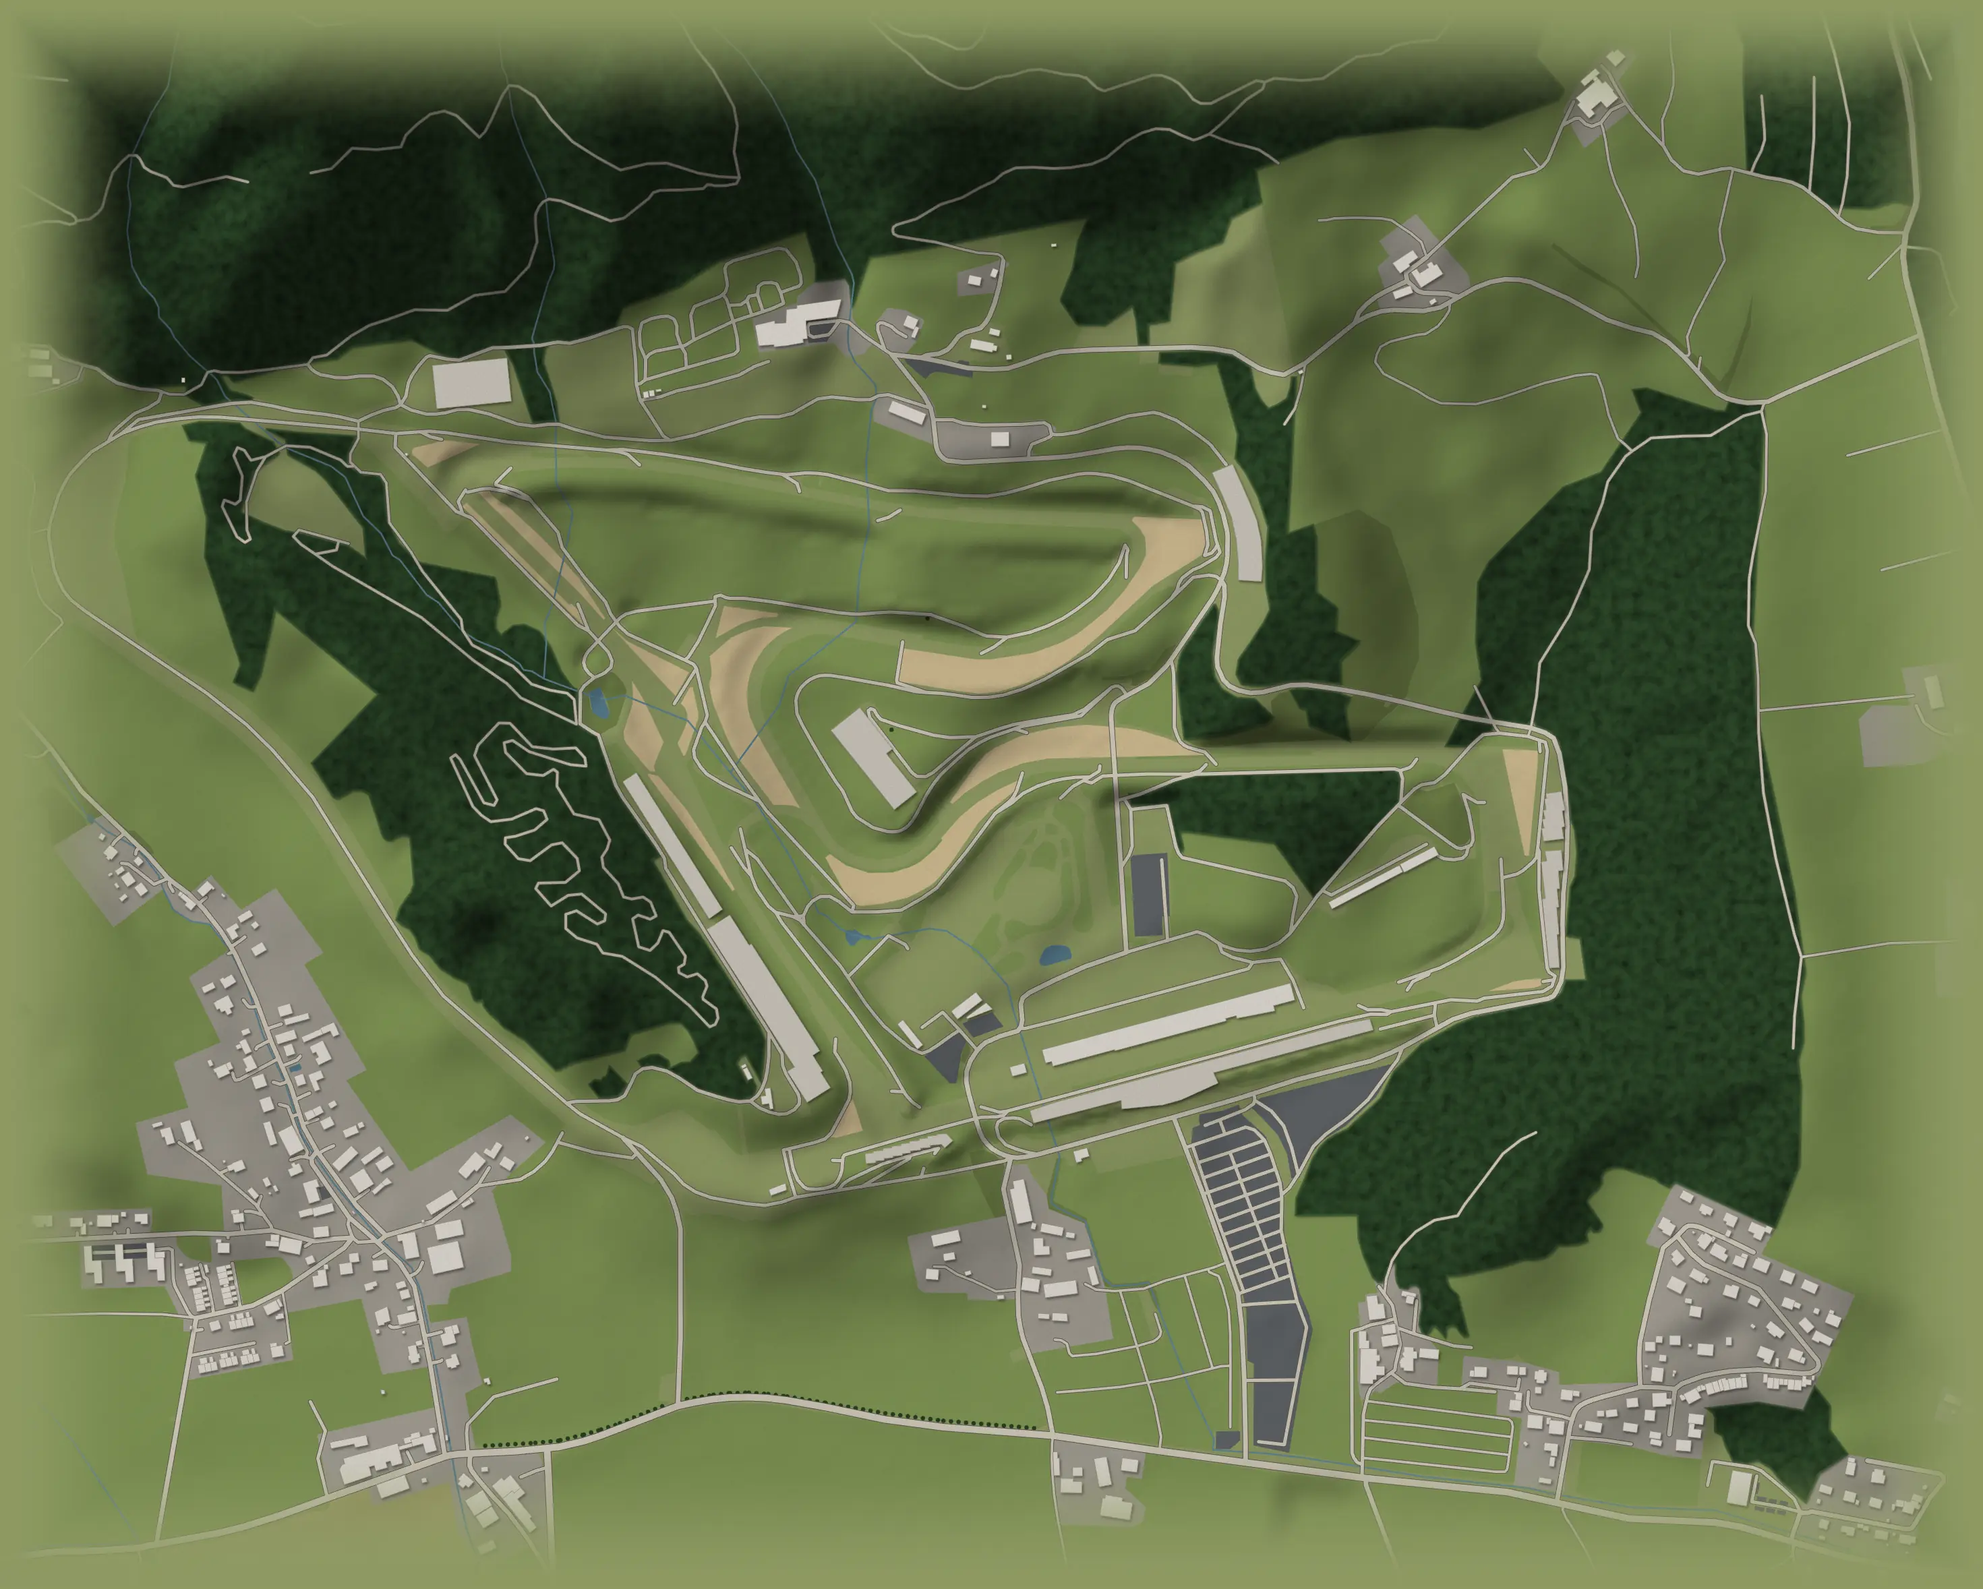
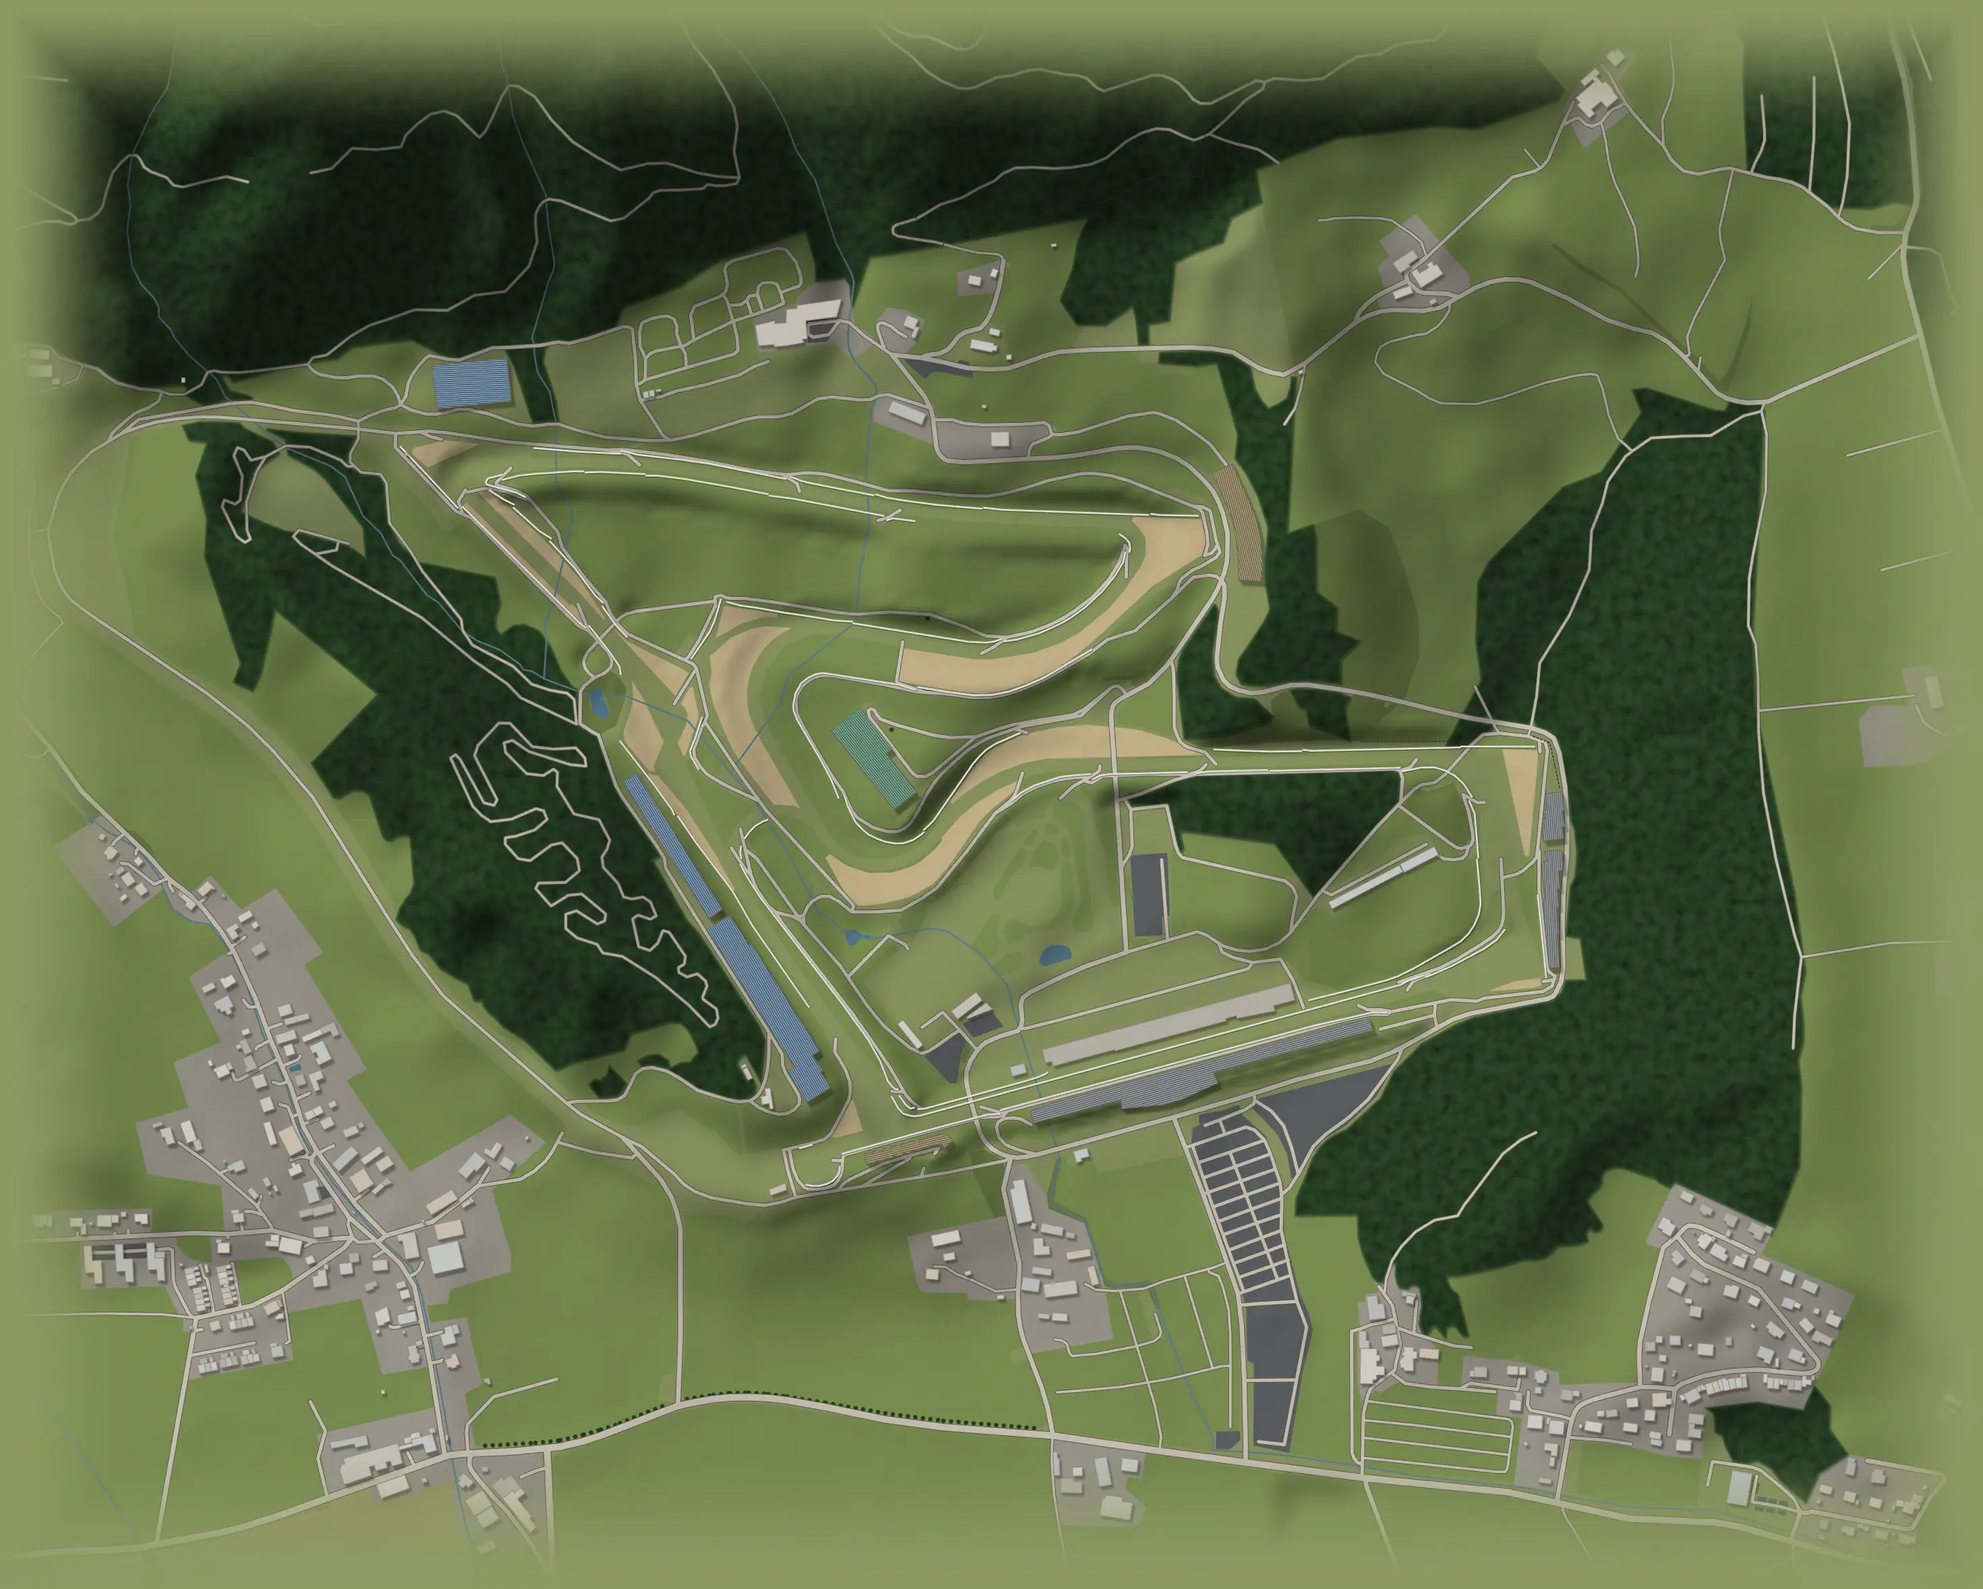
Map detail: the real barriers (walls, armco, catch fences), kerbs on the inside at each apex and the outside at each exit, buildings with height-long shadows and real roof tones, grandstands with rows of coloured seats; the track drawn near its real width over the ground

diff --git a/apps/web/src/components/TrackMap.tsx b/apps/web/src/components/TrackMap.tsx
@@ -73,10 +73,13 @@ function BattleLines({
   line,
   battle,
   glyph,
+  track,
 }: {
   line: Polyline;
   battle: BattleView;
   glyph: number;
+  /** The track's drawn width (map units). */
+  track: number;
 }) {
   const inside = insideSide(line, battle.at);
   const [from, to] = lineStretch(battle.at);
@@ -84,7 +87,7 @@ function BattleLines({
   const brake = battle.at - BRAKE_BEFORE;
   const [bx, by] = pointAt(line, brake);
   const [bnx, bny] = normalAt(line, brake);
-  const half = TRACK / 2 + 3;
+  const half = track / 2 + 3;
   // Options with no line of their own (wait, let him by) sit as tags beside the braking zone,
   // on the outside of the track.
   const tagAt: [number, number] = [
@@ -132,7 +135,7 @@ function BattleLines({
         const called = opts.find((o) => o.line === battle.chosen);
         const lit = battle.chosen === null || !!called;
         const color = LINE_COLOR[(called ?? opts[0])?.line ?? 'inside'];
-        const pts = offsetPath(line, from, to, sideSign * inside * TRACK * 0.32);
+        const pts = offsetPath(line, from, to, sideSign * inside * track * 0.32);
         const d = `M${pts.map((p) => `${p[0].toFixed(1)},${p[1].toFixed(1)}`).join('L')}`;
         const end = pts[pts.length - 1] as [number, number];
         const prev = pts[pts.length - 2] as [number, number];
@@ -158,7 +161,7 @@ function BattleLines({
                 line,
                 from + 0.004 + k * 0.009,
                 from + 0.004 + k * 0.009,
-                sideSign * inside * (TRACK / 2 + 14),
+                sideSign * inside * (track / 2 + 14),
                 1,
               )[0] as [number, number];
               return (
@@ -262,11 +265,6 @@ function garageAt(team: string | undefined, garages: Array<[string, string]>): n
 const pathOf = (pts: Array<[number, number]>, closed: boolean) =>
   `M${pts.map((p) => `${p[0].toFixed(1)},${p[1].toFixed(1)}`).join('L')}${closed ? 'Z' : ''}`;
 
-/** Points of the lap from fraction a to b (a short stretch: a kerb). */
-function stretch(line: Polyline, a: number, b: number, n = 8): Array<[number, number]> {
-  return Array.from({ length: n + 1 }, (_, i) => pointAt(line, a + ((b - a) * i) / n));
-}
-
 /** The circuit itself: drawn once per outline (cars move over it). */
 const TrackArt = memo(function TrackArt({
   outline,
@@ -276,6 +274,7 @@ const TrackArt = memo(function TrackArt({
   userTeam,
   rivalTeam,
   ground,
+  track,
 }: {
   outline: TrackOutline;
   garageList: Array<[string, string]>;
@@ -285,6 +284,8 @@ const TrackArt = memo(function TrackArt({
   rivalTeam?: string;
   /** The real ground under the track (track/ground.ts), when the circuit has it. */
   ground: Ground | null;
+  /** The track's drawn width (map units). */
+  track: number;
 }) {
   const lap = pathOf(outline.points, true);
   const lanePts = lane?.path.points ?? [];
@@ -292,9 +293,22 @@ const TrackArt = memo(function TrackArt({
   // Centre of the circuit, to put corner badges on the outside.
   const cx = outline.points.reduce((t, p) => t + p[0], 0) / outline.points.length;
   const cy = outline.points.reduce((t, p) => t + p[1], 0) / outline.points.length;
-  const kerbs = outline.corners.map(([n, x, y]) => {
+  // Kerbs as on a real corner: on the inside at the apex, on the outside at the exit, each
+  // laid just off the track's edge.
+  const kerbs = outline.corners.flatMap(([n, x, y]) => {
     const f = nearestFraction(line, [x, y]);
-    return { n, d: pathOf(stretch(line, f - 0.012, f + 0.012), false) };
+    const side = insideSide(line, f);
+    const edge = track / 2 + 1.4;
+    return [
+      {
+        key: `${n}-apex`,
+        d: pathOf(offsetPath(line, f - 0.008, f + 0.008, side * edge, 10), false),
+      },
+      {
+        key: `${n}-exit`,
+        d: pathOf(offsetPath(line, f + 0.004, f + 0.022, -side * edge, 12), false),
+      },
+    ];
   });
   // Start/finish: across the track at the first point.
   const [sx, sy] = outline.points[0] ?? [0, 0];
@@ -350,7 +364,7 @@ const TrackArt = memo(function TrackArt({
           d={lap}
           fill="none"
           stroke="var(--runoff)"
-          strokeWidth={TRACK + 34}
+          strokeWidth={track + 34}
           strokeLinejoin="round"
         />
       )}
@@ -360,7 +374,7 @@ const TrackArt = memo(function TrackArt({
         fill="none"
         stroke="#000"
         strokeOpacity={0.35}
-        strokeWidth={TRACK + 9}
+        strokeWidth={track + 9}
         strokeLinejoin="round"
         transform="translate(1.5,2)"
       />
@@ -393,33 +407,20 @@ const TrackArt = memo(function TrackArt({
           />
         </>
       )}
-      {/* Kerbs: red and white, just wider than the track at each corner */}
-      {kerbs.map((k) => (
-        <g key={k.n}>
-          <path d={k.d} fill="none" stroke="#f3f4f2" strokeWidth={TRACK + 5} strokeLinecap="butt" />
-          <path
-            d={k.d}
-            fill="none"
-            stroke="#d63a2f"
-            strokeWidth={TRACK + 5}
-            strokeDasharray="5 5"
-            strokeLinecap="butt"
-          />
-        </g>
-      ))}
+
       {/* Track edges, then the asphalt */}
       <path
         d={lap}
         fill="none"
         stroke="var(--track-line)"
-        strokeWidth={TRACK + 3}
+        strokeWidth={track + 3}
         strokeLinejoin="round"
       />
       <path
         d={lap}
         fill="none"
         stroke="var(--tarmac-lane)"
-        strokeWidth={TRACK}
+        strokeWidth={track}
         strokeLinejoin="round"
       />
       <path
@@ -430,6 +431,20 @@ const TrackArt = memo(function TrackArt({
         strokeDasharray="10 14"
         opacity={0.7}
       />
+      {/* Kerbs: red and white, along the track's edge at each corner */}
+      {kerbs.map((k) => (
+        <g key={k.key}>
+          <path d={k.d} fill="none" stroke="#f3f4f2" strokeWidth={3.2} strokeLinecap="butt" />
+          <path
+            d={k.d}
+            fill="none"
+            stroke="#d63a2f"
+            strokeWidth={3.2}
+            strokeDasharray="3 3"
+            strokeLinecap="butt"
+          />
+        </g>
+      ))}
       {/* Start/finish: a chequered band */}
       <g transform={`translate(${sx},${sy}) rotate(${startAngle})`}>
         {Array.from({ length: 10 }, (_, i) =>
@@ -437,9 +452,9 @@ const TrackArt = memo(function TrackArt({
             <rect
               key={`${i}-${col}`}
               x={-4 + col * 4}
-              y={-TRACK / 2 + i * (TRACK / 10)}
+              y={-track / 2 + i * (track / 10)}
               width={4}
-              height={TRACK / 10}
+              height={track / 10}
               fill={(i + col) % 2 ? '#151A1D' : '#f3f4f2'}
             />
           )),
@@ -595,6 +610,14 @@ export function TrackMap({
   const line = useMemo(() => polyline(outline.points), [outline]);
   const lane = useMemo(() => pitLane(outline, line, TRACK), [outline, line]);
   const ground = useMemo(() => groundFor(model.race.id), [model.race.id]);
+  // Over real ground the track is drawn nearer its real width (about 30 m, so the barriers and
+  // run-off beside it show); never thinner than reads at a glance, nor wider than before.
+  const track = useMemo(() => {
+    if (!ground) return TRACK;
+    const [a, b, c, d] = ground.matrix;
+    const unitsPerMetre = Math.sqrt(Math.abs(a * d - b * c));
+    return Math.min(TRACK, Math.max(12, 30 * unitsPerMetre));
+  }, [ground]);
   const garages = useMemo(
     () =>
       garagesFor(
@@ -781,7 +804,7 @@ export function TrackMap({
     if (!side) return [0, 0];
     const k = Math.min(1, (d + 0.06) / 0.02) * Math.min(1, (0.02 - d) / 0.01);
     const [nx, ny] = normalAt(line, at);
-    const w = TRACK * 0.28 * (code === userSide ? side : -side) * k;
+    const w = track * 0.28 * (code === userSide ? side : -side) * k;
     return [nx * w, ny * w];
   };
 
@@ -804,6 +827,7 @@ export function TrackMap({
         userTeam={race.cars[userSide]?.team}
         rivalTeam={race.cars[rival]?.team}
         ground={ground}
+        track={track}
       />
       {/* Shade over the ground too, beyond the outline's box. */}
       {dim && (
@@ -826,7 +850,7 @@ export function TrackMap({
           opacity={0.3}
         />
       )}
-      {battle && <BattleLines line={line} battle={battle} glyph={glyph} />}
+      {battle && <BattleLines line={line} battle={battle} glyph={glyph} track={track} />}
       {sc && (
         <g transform={`translate(${sc[0].toFixed(1)},${sc[1].toFixed(1)})`}>
           <rect x={-15} y={-9} width={30} height={18} rx={4} fill="var(--flag)" />

diff --git a/pipeline/src/pipeline/basemap.py b/pipeline/src/pipeline/basemap.py
@@ -146,6 +146,102 @@ def _shade_png(h: np.ndarray, step: float) -> str:
     return base64.b64encode(buf.getvalue()).decode()
 
 
+# Roof tones (a building's is picked from its outline, so it stays the same on every run), the
+# grandstands' seat colours, and how the barriers are drawn.
+ROOFS = ["#dcd7ce", "#d0cbc1", "#c3c6c6", "#d6cab8", "#bdb8ae", "#cfd2cf"]
+SEATS = ["#3a6690", "#8c3a3f", "#5f6a73", "#36795c", "#7a6a3a"]
+CONCRETE = "#bfbab0"
+# kind: (colour, width in m, dash). Drawn about twice their real width, so they read on a
+# whole-lap view (at about a pixel and a half a metre).
+BARRIERS = {
+    "wall": ("#ece9e2", 2.2, None),
+    "retaining_wall": ("#dcd8ce", 2.2, None),
+    "guard_rail": ("#d3dade", 1.6, None),
+    "fence": ("#262b2e", 1.0, "3 1.6"),
+}
+SUN = (0.42, 0.58)  # m of shadow, per m of height, along x and y (the light from the north-west)
+
+
+def _hash(pts: list[list[float]]) -> int:
+    x, y = pts[0]
+    return int(abs(x * 7.31 + y * 3.17) * 10) % 9973
+
+
+def _axis(pts: list[list[float]]) -> float:
+    """The angle (degrees) of a footprint's long side: its principal axis."""
+    a = np.asarray(pts, float)
+    a = a - a.mean(0)
+    _, vecs = np.linalg.eigh(a.T @ a)
+    vx, vy = vecs[:, -1]
+    return math.degrees(math.atan2(vy, vx))
+
+
+def _buildings(s: dict, pal: dict) -> tuple[str, str]:
+    """Buildings and grandstands from above: each casts a shadow as long as it's tall; roofs
+    in a few real tones with a darker rim; a grandstand shows its rows of seats, running along
+    its length. Returns (pattern defs, the drawing)."""
+    defs: list[str] = []
+    shadows: list[str] = []
+    roofs: list[str] = []
+    for k, b in enumerate(s.get("buildings", [])):
+        pts = b["p"]
+        if len(pts) < 3:
+            continue
+        rise = min(max(b.get("h", 6) - b.get("min", 0), 2.5), 45)
+        dx, dy = SUN[0] * rise, SUN[1] * rise
+        ring = _ring(pts)
+        # The shadow: the footprint pushed away from the sun, joined to it by its own sweep
+        # (the footprint drawn at a few steps along the way).
+        steps = 4
+        for i in range(1, steps + 1):
+            f = i / steps
+            shadows.append(f'<path d="{ring}" transform="translate({dx * f:.1f} {dy * f:.1f})"/>')
+        if b.get("stand"):
+            seat = SEATS[_hash(pts) % len(SEATS)]
+            pid = f"seats{k}"
+            defs.append(
+                f'<pattern id="{pid}" patternUnits="userSpaceOnUse" width="2.4" height="2.4" '
+                f'patternTransform="rotate({_axis(pts):.1f})">'
+                f'<rect width="2.4" height="2.4" fill="{CONCRETE}"/>'
+                f'<rect width="2.4" height="1.5" fill="{seat}"/></pattern>'
+            )
+            roofs.append(
+                f'<path d="{ring}" fill="url(#{pid})" stroke="#6f6a62" stroke-width="0.9"/>'
+            )
+        else:
+            roof = ROOFS[_hash(pts) % len(ROOFS)]
+            roofs.append(
+                f'<path d="{ring}" fill="{roof}" stroke="{pal["building_edge"]}" '
+                f'stroke-width="0.9"/>'
+            )
+    drawing = (
+        f'<g fill="#000" opacity="0.3" filter="url(#soft-shadow)">{"".join(shadows)}</g>'
+        f"<g>{''.join(roofs)}</g>"
+    )
+    return "".join(defs), drawing
+
+
+def _barriers(s: dict) -> str:
+    """The real barriers: concrete walls, armco and catch fencing, each its own line."""
+    out = []
+    for kind, (colour, width, dash) in BARRIERS.items():
+        d = "".join(_line(b["p"]) for b in s.get("barriers", []) if b["kind"] == kind)
+        if not d:
+            continue
+        dashes = f' stroke-dasharray="{dash}"' if dash else ""
+        if kind in ("wall", "retaining_wall", "guard_rail"):
+            out.append(
+                f'<path d="{d}" fill="none" stroke="#000" stroke-opacity="0.35" '
+                f'stroke-width="{width + 0.9:.1f}" stroke-linejoin="round" '
+                f'transform="translate(0.4 0.6)"/>'
+            )
+        out.append(
+            f'<path d="{d}" fill="none" stroke="{colour}" stroke-width="{width}" '
+            f'stroke-linejoin="round"{dashes}/>'
+        )
+    return "".join(out)
+
+
 def svg(circuit: str) -> str:
     s = json.loads((SCENERY_DIR / f"{circuit}.json").read_text())
     w, h = s["size"]
@@ -174,8 +270,7 @@ def svg(circuit: str) -> str:
         f'<path d="{_line(r["p"])}" stroke-width="{max(r["w"], 2):.1f}"/>'
         for r in s.get("streams", [])
     )
-    stands = "".join(_ring(b["p"]) for b in s.get("buildings", []) if b.get("stand"))
-    blocks = "".join(_ring(b["p"]) for b in s.get("buildings", []) if not b.get("stand"))
+    seat_defs, buildings = _buildings(s, pal)
 
     head = (
         f'<svg xmlns="http://www.w3.org/2000/svg" viewBox="0 0 {w:.1f} {h:.1f}" '
@@ -188,6 +283,8 @@ def svg(circuit: str) -> str:
     )
     return f"""{head}
 {DEFS}
+<defs><filter id="soft-shadow" x="-5%" y="-5%" width="110%" height="110%">\
+<feGaussianBlur stdDeviation="0.9"/></filter>{seat_defs}</defs>
 <rect width="{w:.1f}" height="{h:.1f}" fill="{pal["base"]}"/>
 {area("farm", pal["farm"])}
 {area("grass", pal["grass"])}
@@ -204,10 +301,8 @@ def svg(circuit: str) -> str:
 <g stroke="{pal["road_edge"]}" {line}>{road_edge}</g>
 <g stroke="{pal["road"]}" {line}>{road}</g>
 {shading}
-<g filter="url(#shadow)">
-<path d="{stands}" fill="{pal["stand"]}" stroke="{pal["building_edge"]}" stroke-width="0.6"/>
-<path d="{blocks}" fill="{pal["building"]}" stroke="{pal["building_edge"]}" stroke-width="0.6"/>
-</g>
+{_barriers(s)}
+{buildings}
 <rect width="{w:.1f}" height="{h:.1f}" filter="url(#grain)"/>
 </svg>"""
 

diff --git a/docs/realistic-ui-spec.md b/docs/realistic-ui-spec.md
@@ -49,6 +49,18 @@ game itself doesn't change: every call, panel and control stays where the player
     instead of hard-coded greys.
 - **The 3D view stays parked.** Its switch and code are untouched.
 
+## Detail on the map
+
+- **Barriers:** the real walls, armco and catch fences from the map data, in their real places,
+  drawn about twice their real width so they read on a whole-lap view.
+- **Kerbs:** red and white along the track's edge, on the inside at each apex and on the
+  outside at each exit.
+- **Buildings:** each casts a shadow as long as it's tall (the map's real heights), with roofs in
+  a few real tones and a darker rim.
+- **Grandstands:** rows of coloured seats along each stand's length.
+- **Track width:** over real ground the track is drawn near 30 m wide (between 12 and 22 map
+  units), so the run-off and barriers beside it show. The battle lines scale with it.
+
 ## Circuits
 
 Monza, Spa, Bahrain, Suzuka, the Hungaroring, Yas Marina, the Red Bull Ring (Austria and
